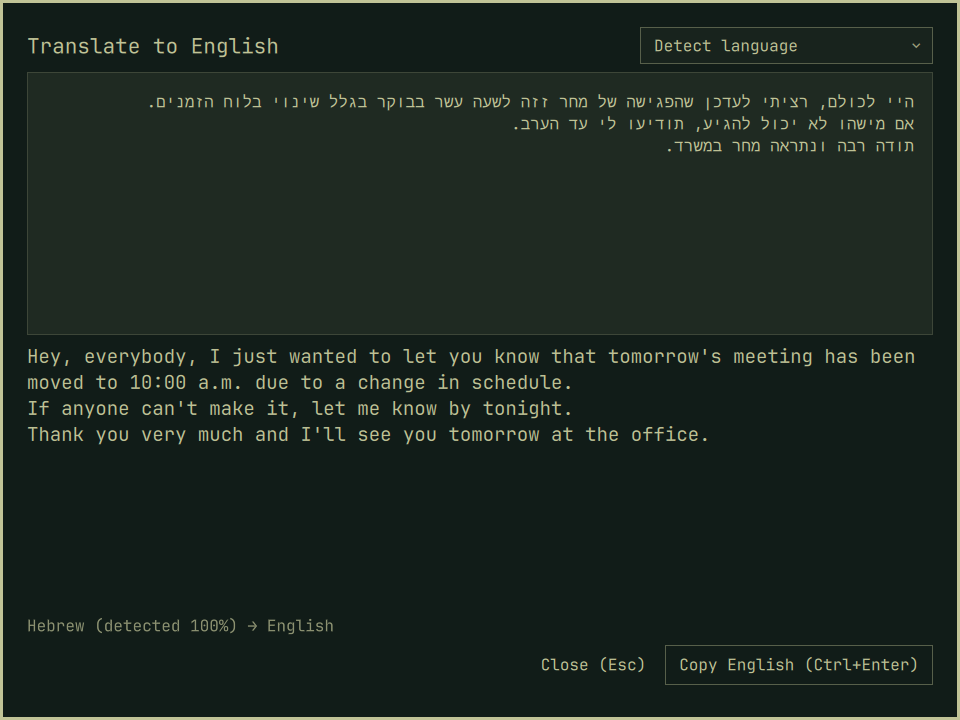
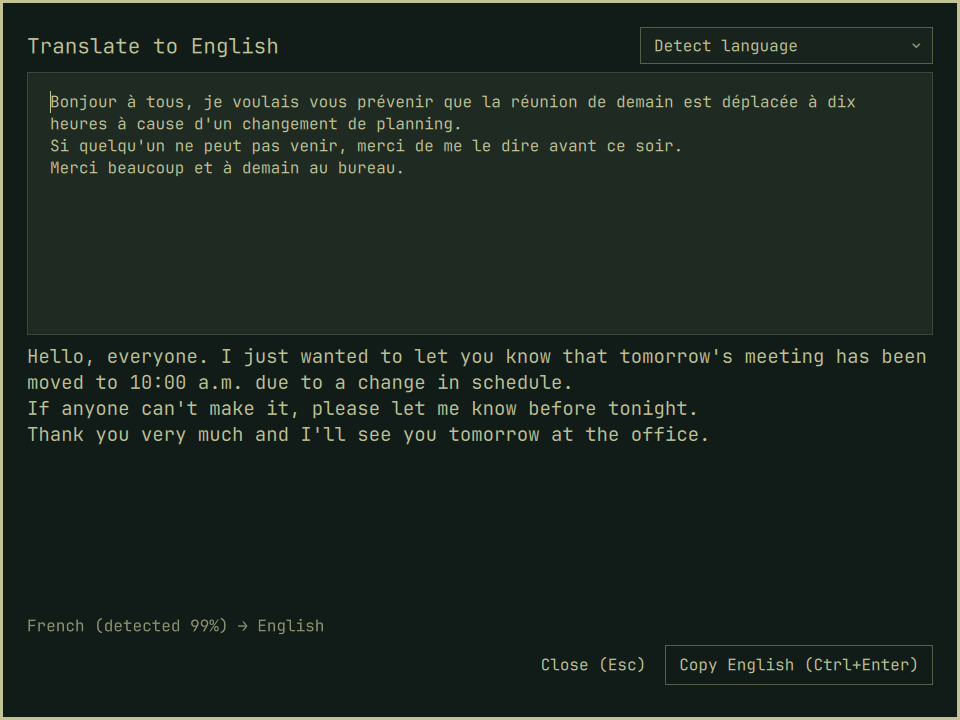
Store preview and README screenshots: French overlay, Russian popup.
Claude-Session: https://claude.ai/code/session_01D9K8tbLbAqZbxkZwRDCxmG

diff --git a/README.md b/README.md
@@ -6,7 +6,7 @@ model. Nothing is sent to a server.
 
 Quickshell plugin for **Omarchy 4**.
 
-![Translator overlay translating Hebrew to English](docs/overlay.png)
+![Translator overlay translating French to English](docs/overlay.png)
 
 ![Popup after copying Russian text](docs/popup.png)
 
